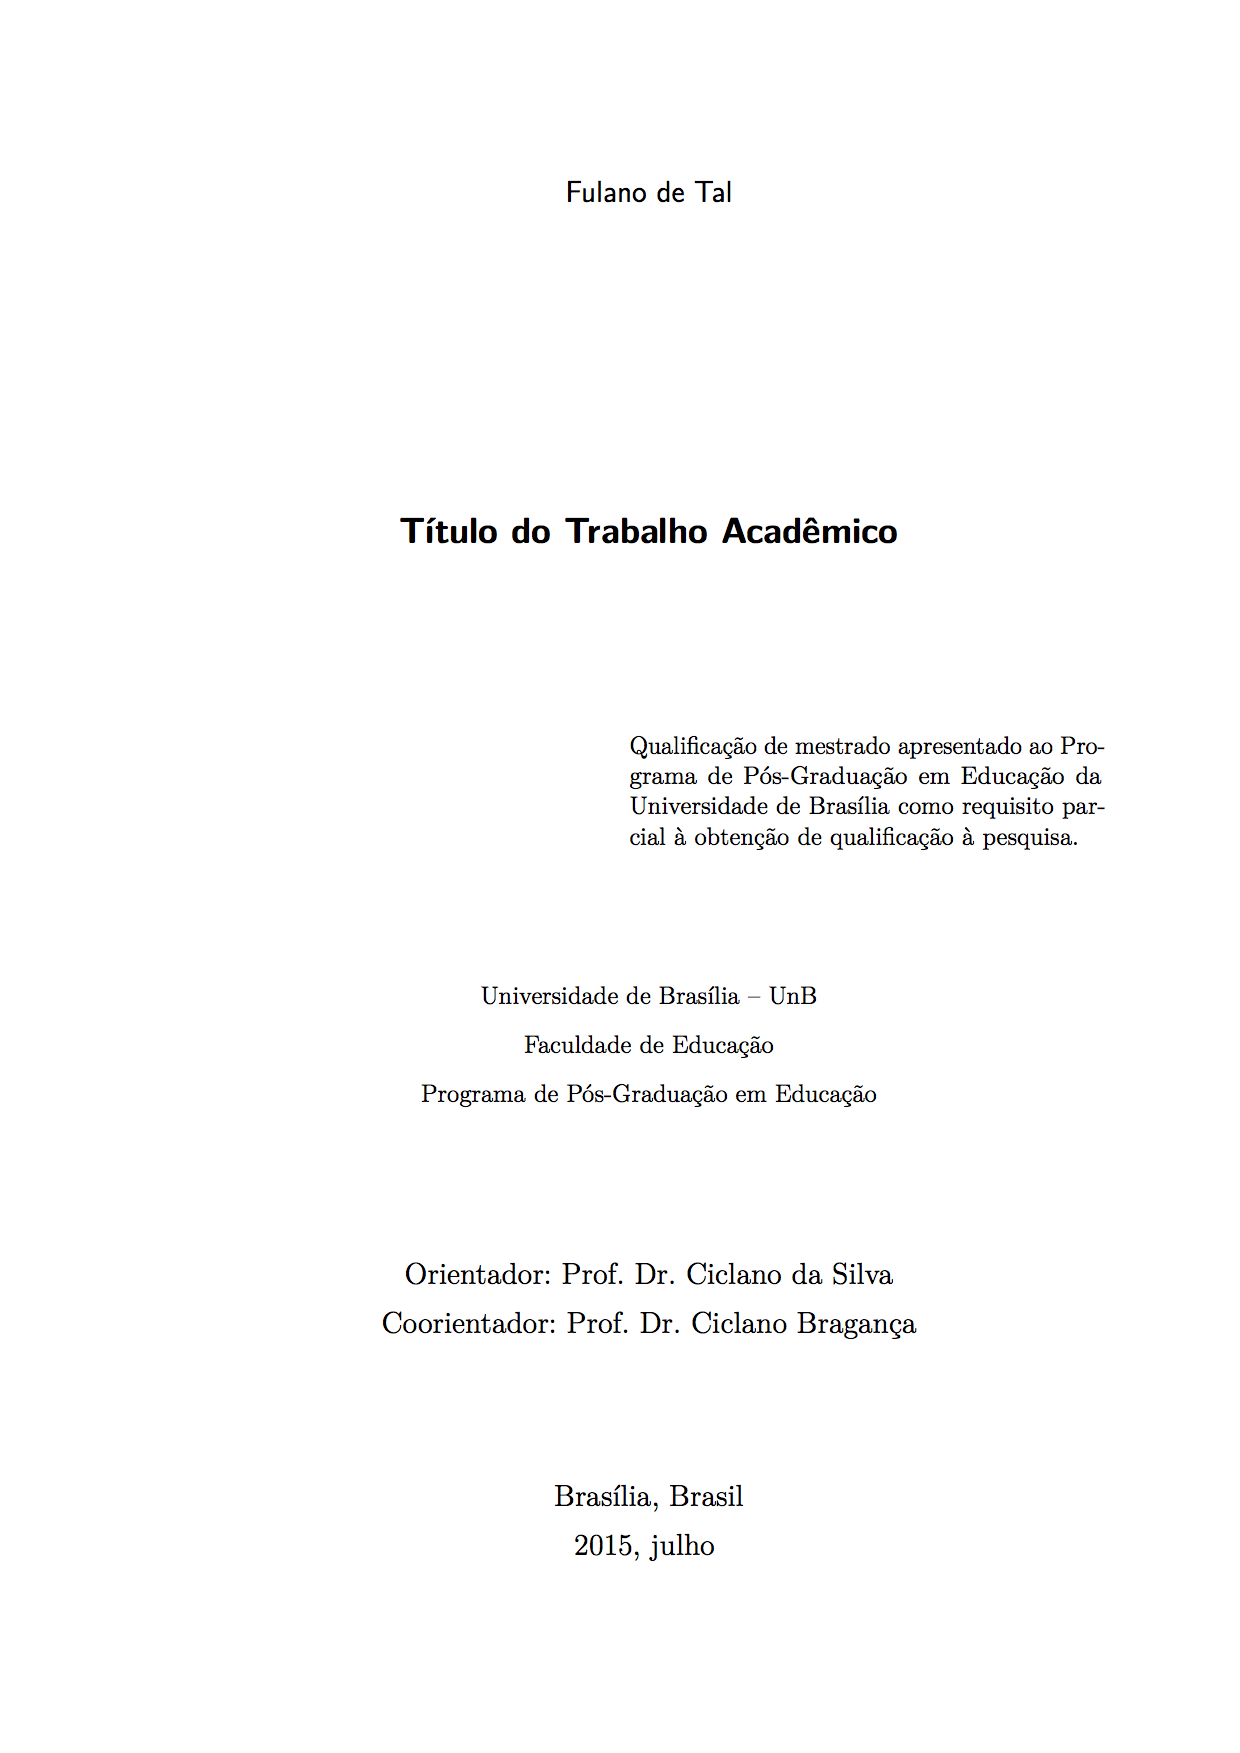
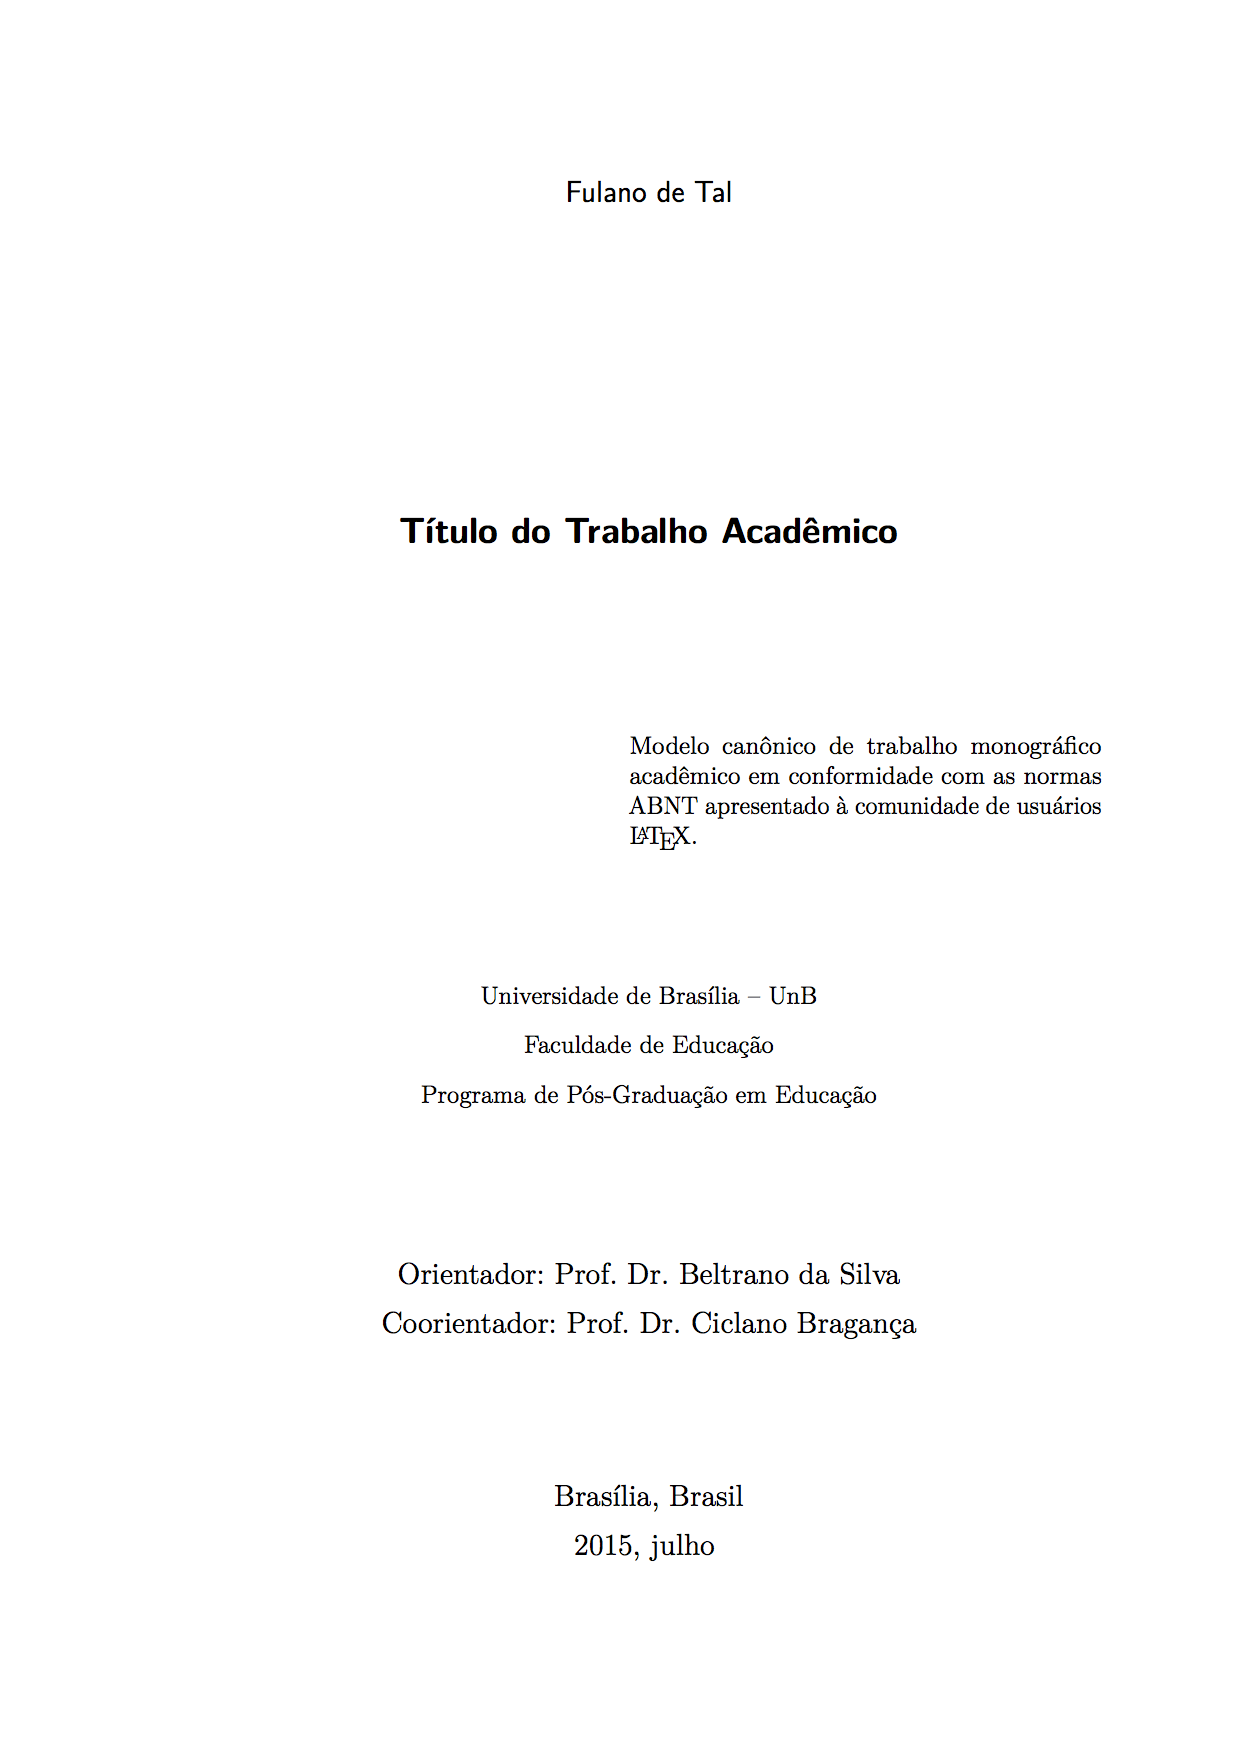
atualização do README.md

Changed region(s): [[0.4903, 0.4005, 0.8887, 0.4929], [0.3065, 0.7085, 0.7355, 0.7393], [0.3371, 0.6161, 0.7048, 0.6469]]

diff --git a/README.md b/README.md
@@ -1,2 +1,50 @@
 # abntex2unb
-Customizações do abnTeX2 para a UnB
+
+Este é um projeto com customizações do [abnTeX2](http://abnTeX2.googlecode.com) para trabalhos acadêmicos da Universidade de Brasília.
+
+A biblioteca [abnTeX2](http://abnTeX2.googlecode.com) já atende os padrões exigidos pela UnB! Esta biblioteca adiciona informações opcionais ao documento.
+
+<small>Atenção! Este não é um projeto oficial da Universidade de Brasília - UnB. O nome dessa instituição é utilizado apenas para indicar que o padrão dos arquivos gerados com a biblioteca abntex2 em conjunto com essa customização estarão de acordo com as suas normas.</small>
+
+## Como usar
+
+1. Copie os arquivos [`abntex2unb.sty`](abntex2unb.sty) e
+[`marca_unb.jpg`](marca_unb.jpg) para o seu projeto;
+2. Adicione o pacote `\usepackage{abntex2unb}` ao seu projeto.
+
+### Exemplo
+
+O arquivo `document.tex`
+```latex
+% ...
+
+\usepackage{./abntex2unb}
+
+% ...
+
+\titulo{Título do Trabalho Acadêmico}
+\autor{Fulano de Tal}
+\data{2015, julho}
+\orientador{Prof. Dr. Beltrano da Silva}
+\coorientador{Prof. Dr. Ciclano Bragança}
+\instituicao{%
+  Universidade de Brasília -- UnB
+  \par
+  Faculdade de Educação
+  \par
+  Programa de Pós-Graduação em Educação}
+\tipotrabalho{Tese (Doutorado)}
+\preambulo{Modelo canônico de trabalho monográfico acadêmico em conformidade com
+as normas ABNT apresentado à comunidade de usuários \LaTeX.}
+
+% ...
+```
+
+Capa                      | Folha de Rosto
+:------------------------:|:----------------------------------------------:
+![Capa](/sample/capa.png) | ![Folha de Rosto](/sample/folha_de_rosto.png)
+
+## Referências
+
+- http://www.bce.unb.br/normas-bibliograficas/
+- http://www.marca.unb.br
